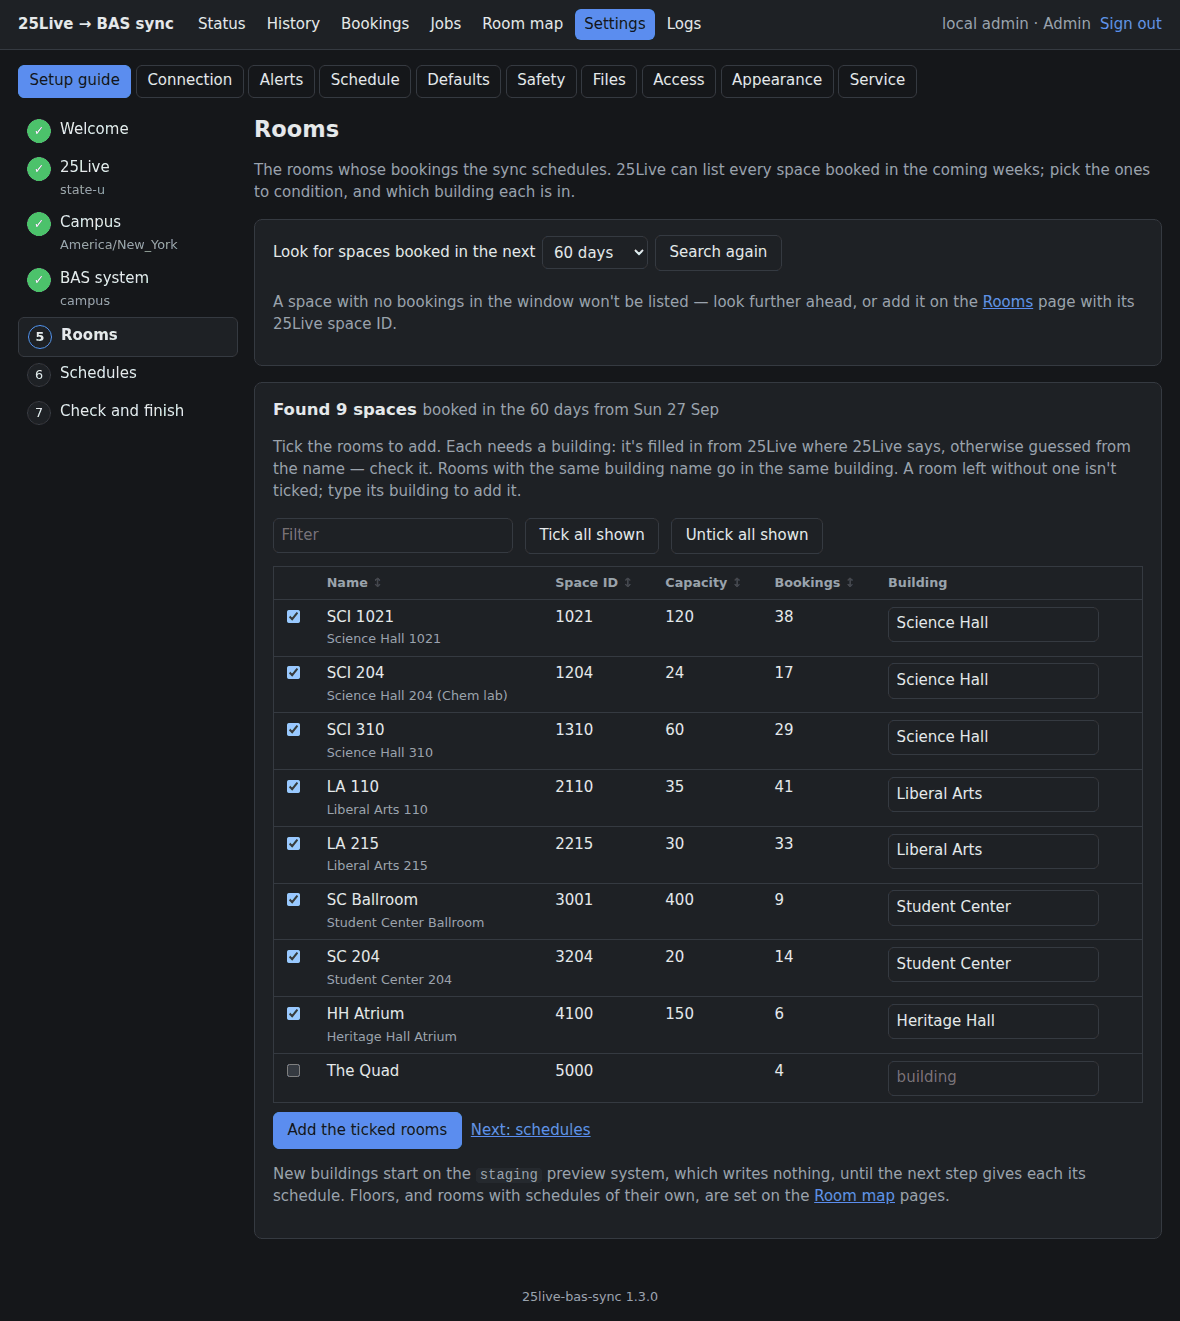
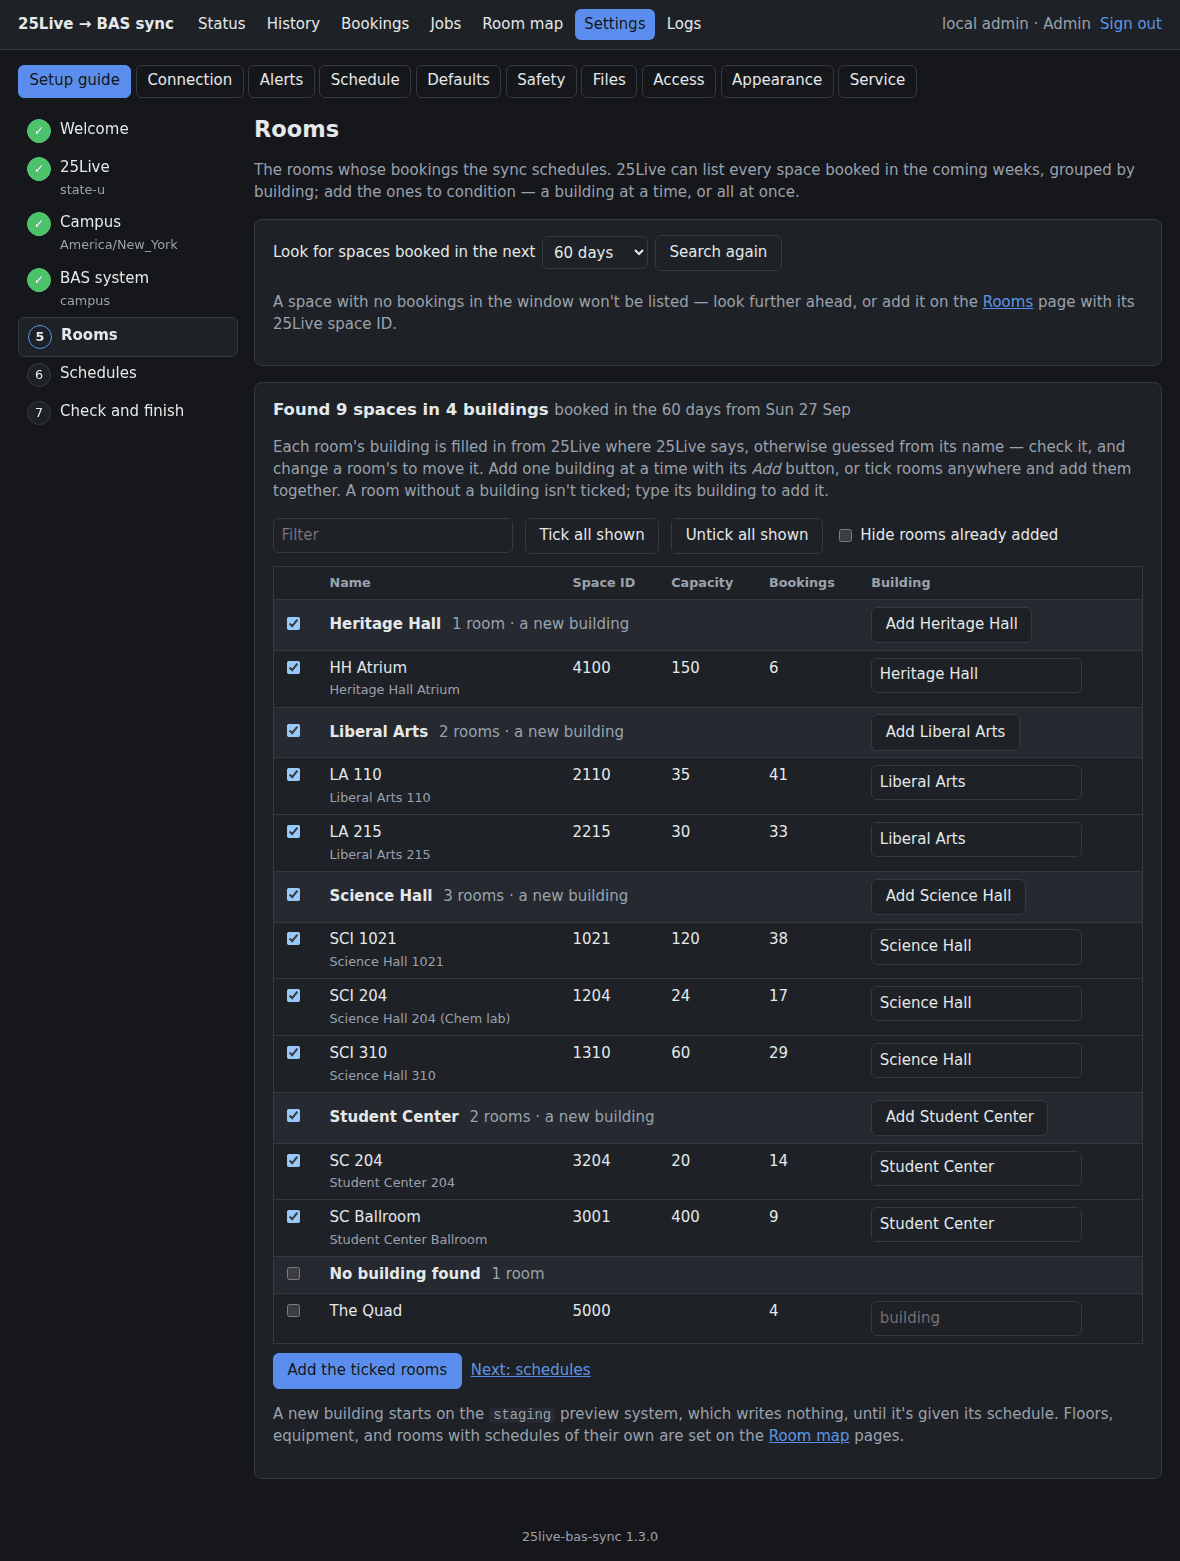
Document equipment and adding rooms a building at a time
The room map reference, how-it-works (a fourth pattern: per equipment),
the README, the web UI page (Room map → Equipment and From 25Live, and a
section on adding rooms from 25Live), the 25Live page and CONTRIBUTING;
the example map shows a lecture hall with two VAVs and two labs sharing
an AHU, and still loads without a warning. The changelog's Unreleased
section covers both, and the setup guide screenshot shows the rooms
grouped by building.

Claude-Session: https://claude.ai/code/session_011JNGLRfxemGL4CFVFJieho

diff --git a/docs/web-ui.md b/docs/web-ui.md
@@ -9,6 +9,7 @@ is saved. It follows the browser's light or dark setting.
 
 - [Pages](#pages)
 - [The setup guide](#the-setup-guide)
+- [Adding rooms from 25Live](#adding-rooms-from-25live)
 - [How it runs things](#how-it-runs-things)
 - [Sign-in and roles](#sign-in-and-roles)
 - [Changing the roles](#changing-the-roles)
@@ -30,7 +31,8 @@ is saved. It follows the browser's light or dark setting.
 | **History** | Every live sync with the report it emailed — every schedule and the exact windows written — and a CSV of every window. |
 | **Bookings** | [Extra bookings](configuration.md#extra-bookings): occupancy that isn't in 25Live — one day or every week, on a room, a floor or a whole building; add, edit, copy and delete, and clear out the ones that have ended. |
 | **Jobs** | Every sync and tool, from the schedule or the web, with its full output, live while it runs. A running job can be stopped. |
-| **Room map** → Rooms · Buildings · Floors | The room map, with search, a campus filter and sortable columns; add, edit, copy and delete. Renaming a building repoints its rooms and floors; deleting one takes its floors and won't leave rooms driving nothing. |
+| **Room map** → Rooms · Buildings · Floors · Equipment | The room map, with search, a campus filter and sortable columns; add, edit, copy and delete. [Equipment](configuration.md#the-room-map) — an AHU several rooms share, or a room's second VAV — is ticked on each room's form. Renaming a building or equipment repoints what uses it; deleting a building takes its floors and equipment and won't leave rooms driving nothing, and equipment in use can't be deleted. |
+| **Room map** → From 25Live | The spaces booked in 25Live, [grouped by building](#adding-rooms-from-25live), to add a building at a time. |
 | **Settings** → Setup guide | A new install's [walk through setup](#the-setup-guide): 25Live, the campus, a BAS system, rooms found in 25Live, each building's schedule, and the checks before the schedule goes on. |
 | **Settings** → Connection | 25Live, BAS systems (add, remove, change driver), timezone and default system; the passwords, set or cleared here. *Validate* per system. |
 | **Settings** → Alerts | Email (SMTP server, security, account and password, recipients, full or summary report, CSV), webhooks (Slack, Teams, generic) and the dead-man's-switch pings; *Send a test*. |
@@ -65,13 +67,8 @@ order, and each step shows as done once the files say so:
    main network; check the prefix), a device ID nothing else uses, and a BBMD
    if the controllers are on another subnet. Other kinds of system are set up on
    the Connection page, and *Carry on without one* is fine too.
-4. **Rooms** — *Find rooms in 25Live* runs [`--discover`](command-line.md) over
-   the next 30 to 180 days and lists every space booked in that window, with its
-   capacity and number of bookings. Each room's building comes from 25Live where
-   your instance says; otherwise it's guessed from the name — "Science Hall 204
-   (Chem lab)" is in *Science Hall*, and "Student Center Ballroom" goes with
-   "Student Center 204". Check the guesses, tick the rooms, and add them: rooms
-   with the same building name share one building.
+4. **Rooms** — *Find rooms in 25Live*, then add them a building at a time or
+   all at once: the same page as [Room map → From 25Live](#adding-rooms-from-25live).
 5. **Schedules** — each building's schedule in the BAS (for BACnet,
    `device:instance`), checked against its system as you save. Floors, and rooms
    with schedules of their own, are on the Room map pages.
@@ -94,8 +91,34 @@ run a live sync. Only whether it was finished or skipped is kept, in
 
 <picture>
   <source media="(prefers-color-scheme: dark)" srcset="images/setup-rooms-dark.png">
-  <img alt="The setup guide's Rooms step: the steps down the side, and the spaces 25Live has bookings for, each with its capacity, number of bookings and a building filled in from 25Live or guessed from the name" src="images/setup-rooms-light.png">
+  <img alt="The setup guide's Rooms step: the steps down the side, and the spaces 25Live has bookings for, grouped by building with an Add button for each, each room with its capacity, number of bookings and a building filled in from 25Live or guessed from the name" src="images/setup-rooms-light.png">
 </picture>
+
+## Adding rooms from 25Live
+
+**Room map → From 25Live** (and the setup guide's Rooms step) lists every space
+booked in 25Live in a window you choose — 30 to 180 days — grouped by building,
+with each room's capacity and number of bookings. *Find rooms in 25Live* runs
+[`--discover`](command-line.md); it needs *Run the tools*, and adding rooms
+needs *Edit the room map*.
+
+Each room's building comes from 25Live where your instance says; otherwise it's
+guessed from the name — "Science Hall 204 (Chem lab)" is in *Science Hall*, and
+"Student Center Ballroom" goes with "Student Center 204". Every guess is an
+editable box: change a room's building to move it to another group when you add
+it.
+
+- **One building at a time:** each building's *Add* button adds its ticked rooms,
+  and nothing else. A building the room map doesn't have yet is created, and
+  you go straight to its form to give it its schedule.
+- **Or all at once:** tick rooms anywhere, and *Add the ticked rooms*.
+
+Rooms go into the room map's building of that name (or id). A new building
+waits on the `staging` preview system, which writes nothing, with a placeholder
+target, until it's given its real schedule — so adding rooms never writes to a
+BAS by itself. Rooms already in the map are marked *added*; a room with no
+building isn't ticked until you type one. Floors, equipment and rooms' own
+targets are set on the Room map pages afterwards.
 
 ## How it runs things
 

diff --git a/docs/how-it-works.md b/docs/how-it-works.md
@@ -36,8 +36,9 @@ flowchart LR
 3. **Merge** overlapping bookings, and ones closer than `merge_gap_minutes`,
    into clean occupancy windows.
 4. **Roll up**: every room in a building unions into the building's schedule,
-   and a room on a floor with its own schedule unions into that too. If *any*
-   room is occupied, the common areas run.
+   and a room on a floor with its own schedule unions into that too, as does
+   each piece of equipment (an AHU, a VAV) that serves it. If *any* room is
+   occupied, the common areas run.
 5. **Check** the result against the last run, and refuse to write if it would
    stand an implausible share of the campus down — see [Safety rails](safety.md).
 6. **Write** each schedule through the driver for the BAS it lives on — one
@@ -111,13 +112,14 @@ lookahead no matter how heavily booked the rooms are.
 
 This is the thing to get right, and **it is not the same campus-wide.** How
 granular you can be is decided by how each building was built out, not by this
-tool. All three patterns are first-class, and they mix freely in one map:
+tool. All four patterns are first-class, and they mix freely in one map:
 
 | Pattern | When | How to map it |
 |---|---|---|
 | **Per room** | The room has its own schedulable object — a room-level VAV or FCU. Typical of **WebCTRL** sites, where scheduling is normally done per room. | Give the room a `target:`. |
 | **Per floor** | The building came online with floor-level air handling, so the corridor AHU is the finest real control. | Give the room a `building:` and a `floor:`, and **no** `target:`. |
 | **Per building** | The oldest wings: one air handler for the whole building. | Give the room a `building:` and nothing else. |
+| **Per equipment** | An AHU serves a group of rooms, or a big room has two VAVs. | Define the equipment once under its building's `equipment:`, and list it on each room it serves. |
 
 A room with **no `target:` is a normal, supported mapping** — it contributes its
 bookings to whatever roll-ups it belongs to and writes no schedule of its own.
@@ -125,9 +127,15 @@ Occupancy always rolls up **room → floor → building**, so a booked room driv
 its own schedule (if it has one), its floor's corridor (if it names a floor),
 and its building's common areas.
 
+Equipment is how a schedule serves **more than one room**, or a room drives
+**more than one schedule**. An AHU listed by six rooms runs whenever any of the
+six is booked; a lecture hall with two VAVs lists the second as equipment (or
+both, and no `target:`) and drives both. Each piece of equipment is written
+once, however many rooms list it.
+
 The only thing that *is* an error is a room with neither a `target:` nor a
 `building:` — its bookings would drive nothing at all, and the loader says so
 rather than swallowing them.
 
 [The room map](configuration.md#the-room-map) has the details, and
-`space_mapping.example.yaml` shows all three patterns side by side.
+`space_mapping.example.yaml` shows all four patterns side by side.

diff --git a/docs/configuration.md b/docs/configuration.md
@@ -112,11 +112,12 @@ desktop editor's **Defaults** tab, or by hand.
 cp space_mapping.example.yaml space_mapping.yaml
 ```
 
-Three sections: `buildings:` (each roll-up schedule, defined once), `floors:`
-(optional per-floor corridor schedules) and `spaces:` (the rooms). Each room
-names its `building:` by id, and **every room in a building is automatically
-unioned into that building's schedule** — you never repeat the building's
-address on a room, so you can't forget to wire one up.
+Three sections: `buildings:` (each roll-up schedule, defined once, with any
+equipment its rooms share), `floors:` (optional per-floor corridor schedules)
+and `spaces:` (the rooms). Each room names its `building:` by id, and **every
+room in a building is automatically unioned into that building's schedule** —
+you never repeat the building's address on a room, so you can't forget to wire
+one up.
 
 ```yaml
 buildings:
@@ -126,6 +127,10 @@ buildings:
     system: webctrl
     target: "12200:100"           # the building's common-area schedule
     pre_condition_minutes: 40     # bigger air handler, longer run-up
+    equipment:
+      - id: ahu_3                 # rooms list it by this
+        name: "AHU-3"
+        target: "12200:300"       # runs whenever any room listing it is booked
 
 floors:
   - building: liberal_arts
@@ -138,6 +143,7 @@ spaces:
     building: liberal_arts
     floor: 2                      # drives the floor 2 corridor too
     target: "12200:5"             # its own schedule; omit to drive only the roll-ups
+    equipment: [ahu_3]            # and the AHU it shares with other rooms
 ```
 
 Each entry carries:
@@ -154,6 +160,16 @@ Each entry carries:
   `level`, the room also drives that floor's corridor schedule. Occupancy rolls
   up **room → floor → building**: a corridor runs if any room off it is booked,
   and the building runs if any floor is.
+- **`equipment:`** — on a building, a list of the equipment in it that has a
+  schedule of its own: an air handler that serves several rooms, or a second VAV
+  in a big room. Each entry has an `id` (unique in the building), an optional
+  `name`, a `target`, and optionally a `system` (else the building's). On a
+  room, the ids of the building's equipment that serve it, e.g.
+  `equipment: [ahu_3, vav_2_14b]`. Each piece of equipment runs whenever any
+  room that lists it is booked, merged across rooms like a floor; a room can
+  list several, with or without a `target:` of its own. Equipment no room lists
+  yet is still managed, and cleared. In the web UI it's **Room map →
+  Equipment**, and ticked on each room's form.
 - **`campus:`** (buildings) — an optional label. The web UI shows it on every
   room-map list, filters by it and counts rooms per campus; the sync ignores
   it, as 25Live has no campus to match it against.

diff --git a/README.md b/README.md
@@ -50,9 +50,10 @@ finely as that building actually supports.
   at its BAS schedule.
 - **Mixed-vendor campus in one run.** Every building names the BAS it lives on,
   and its rooms inherit it.
-- **Per-room, per-floor or per-building scheduling**, mixed freely. Occupancy
-  rolls up **room → floor → building**, so a booked room also runs its corridor
-  and its building's common areas.
+- **Per-room, per-floor, per-building or per-equipment scheduling**, mixed
+  freely. Occupancy rolls up **room → floor → building**, so a booked room also
+  runs its corridor and its building's common areas. One AHU can serve many
+  rooms, and one room can drive several VAVs.
 - **Pre-conditioning and run-down buffers**, set per room, per building or
   globally. Back-to-back bookings merge into clean occupancy windows.
 - **Extra bookings** for what isn't in 25Live — an open house, an evening
@@ -104,8 +105,8 @@ Browse to **`http://<host>:8080`** and sign in with `BAS_WEB_PASSWORD`. The
 1. **25Live**: your instance and service account, tested as you save.
 2. **Campus**: the timezone, and how early rooms start conditioning.
 3. **BAS**: a `bacnet` system, with this host's address filled in.
-4. **Rooms**: it lists the spaces booked in 25Live, with each room's building
-   filled in from 25Live or guessed from its name. Tick the ones to add.
+4. **Rooms**: it lists the spaces booked in 25Live, grouped by building, filled
+   in from 25Live or guessed from the room names. Add a building at a time.
 5. **Schedules**: each building's BACnet schedule.
 6. **Check and finish**: *Validate* and a *Dry run*, then turn the schedule on.
 
@@ -133,13 +134,14 @@ To run it from Task Scheduler or cron instead, see
 ## Schedule as finely as each building allows
 
 How granular you can be is decided by how each building was built out. All
-three patterns are first-class, and they mix freely in one map:
+four patterns are first-class, and they mix freely in one map:
 
 | Pattern | When | Map the room with |
 |---|---|---|
 | **Per room** | The room has its own schedulable VAV or FCU, typical of WebCTRL sites | its own `target:` |
 | **Per floor** | Floor-level air handling: the corridor AHU is the finest real control | a `building:` and a `floor:` |
 | **Per building** | One air handler for the whole building | a `building:` only |
+| **Per equipment** | One AHU for a group of rooms, or two VAVs in one room | the building's `equipment:` it's served by |
 
 → [How finely can you schedule?](docs/how-it-works.md#how-finely-can-you-schedule) ·
 [The room map](docs/configuration.md#the-room-map)

diff --git a/CHANGELOG.md b/CHANGELOG.md
@@ -20,6 +20,19 @@ semantic versioning from 1.0 onward.
   bookings, and a building taken from 25Live where the instance gives one, or
   guessed from the name ("Science Hall 204 (Chem lab)" → Science Hall).
   Ticked rooms are added in one go, creating their buildings.
+- **Equipment: one AHU for many rooms, several VAVs for one room.** A
+  building's `equipment:` lists the air handlers, VAVs and the like that have a
+  schedule of their own; each room lists the ones that serve it
+  (`equipment: [ahu_3]`). Each runs whenever any room listing it is booked,
+  merged across rooms like a floor, and is written once. A room can list
+  several, with or without its own `target:`. Edited on **Room map →
+  Equipment**, and ticked on each room's form; renaming equipment repoints its
+  rooms, and equipment in use can't be deleted.
+- **Room map → From 25Live**: the spaces booked in 25Live, grouped by
+  building, to add a building at a time (each group has its own *Add* button,
+  and a new building goes straight to its form for its schedule) or all at
+  once. It's the setup guide's Rooms step too, and needs *Edit the room map*
+  rather than *Edit settings*.
 - `--discover` collects each space's formal name, capacity, building and
   number of bookings (cancelled occurrences, and states the sync doesn't
   include, aren't counted), and keeps them in `state/discovery.json`. Its
@@ -29,6 +42,8 @@ semantic versioning from 1.0 onward.
 - The status page's *Getting started* card follows the setup guide's steps,
   and goes once the guide is finished or skipped, or the site has run a live
   sync.
+- Two rooms with the same `target:` still share it, and the warning now
+  suggests equipment for when that's intended.
 
 ## [1.3.0] — 2026-09-28 — A web UI, and Docker as the way to run it
 

diff --git a/CONTRIBUTING.md b/CONTRIBUTING.md
@@ -70,7 +70,8 @@ python main.py --dry-run    # talks to 25Live only; contacts no BAS at all
 The suite runs under pytest, offline — no 25Live, no BAS, no internet. It
 covers:
 
-- the merge/roll-up logic, and the loader and its inheritance rules
+- the merge/roll-up logic (equipment included), and the loader and its
+  inheritance rules
 - config validation, the safety rail and its state file
 - the 25Live client's paging, cancellation and fetch-window handling, and
   what discovery collects and guesses
@@ -105,7 +106,7 @@ check.
 | `bassync/extras.py` | Extra bookings: occupancy that isn't in 25Live. |
 | `bassync/discovery.py` | What `--discover` found, kept for the setup guide, and its guesses at each room's building. |
 | `bassync/updates.py` | Whether a newer release is out (GitHub's releases API). |
-| `bassync/web/` | The web UI (Flask): pages (`views.py`, `bookings.py`, and the setup guide in `setup.py`), templates and static files; `access.py` (roles, capabilities and branding) and `entra.py` (Microsoft sign-in). |
+| `bassync/web/` | The web UI (Flask): pages (`views.py`, `bookings.py`, the setup guide in `setup.py`, and adding rooms from 25Live in `importer.py`), templates and static files; `access.py` (roles, capabilities and branding) and `entra.py` (Microsoft sign-in). |
 | `bassync/secretstore.py` | Passwords set on the web UI, kept in `state/secrets.json`. |
 | `bassync/mapedit.py` | Reading, checking and writing the settings files — shared by both editors. |
 | `bassync/editor.py` · `editor.py` · `Edit-Rooms.bat` | The desktop editor (Tkinter), its launcher, and a double-click launcher for Windows. |

diff --git a/docs/25live.md b/docs/25live.md
@@ -24,9 +24,9 @@ The sync only ever **reads** from 25Live, through Series25 WebServices.
   fails the fetch with a message, instead of re-requesting the same page.
 - Find a space's numeric `space_id` from its detail-page URL in 25Live, with
   *Discover spaces* on the web UI, or with `--discover`. The web UI's
-  [setup guide](web-ui.md#the-setup-guide) lists every space booked in a window
-  of up to 180 days, with its capacity and number of bookings, and adds the ones
-  you tick. Discovery asks the same `events.xml` the sync does, so a space
+  [Room map → From 25Live](web-ui.md#adding-rooms-from-25live) lists every space
+  booked in a window of up to 180 days, grouped by building, with its capacity
+  and number of bookings, and adds them a building at a time. Discovery asks the same `events.xml` the sync does, so a space
   appears only if it has a booking in the window. Where your instance includes
   a space's building in that response, it's used; otherwise the building is
   guessed from the space's name, for you to check.
